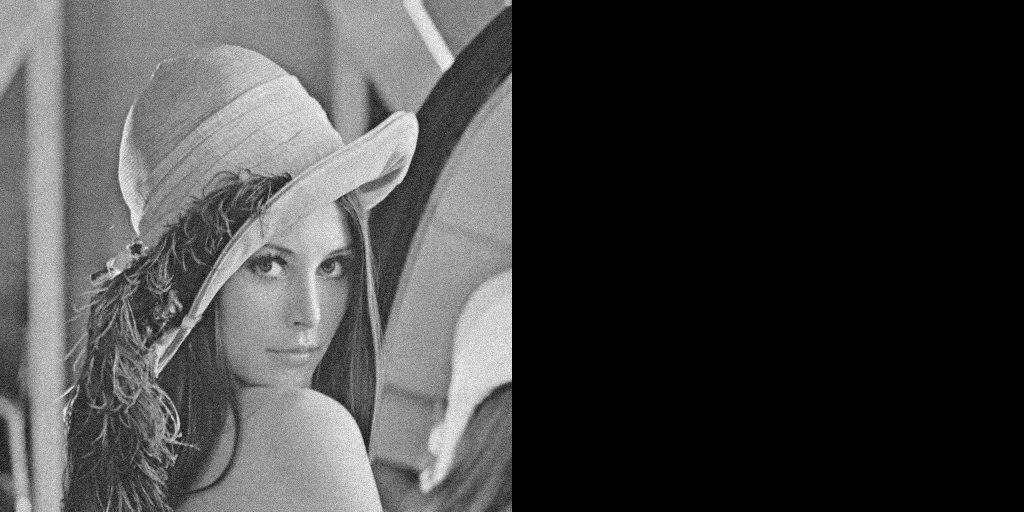
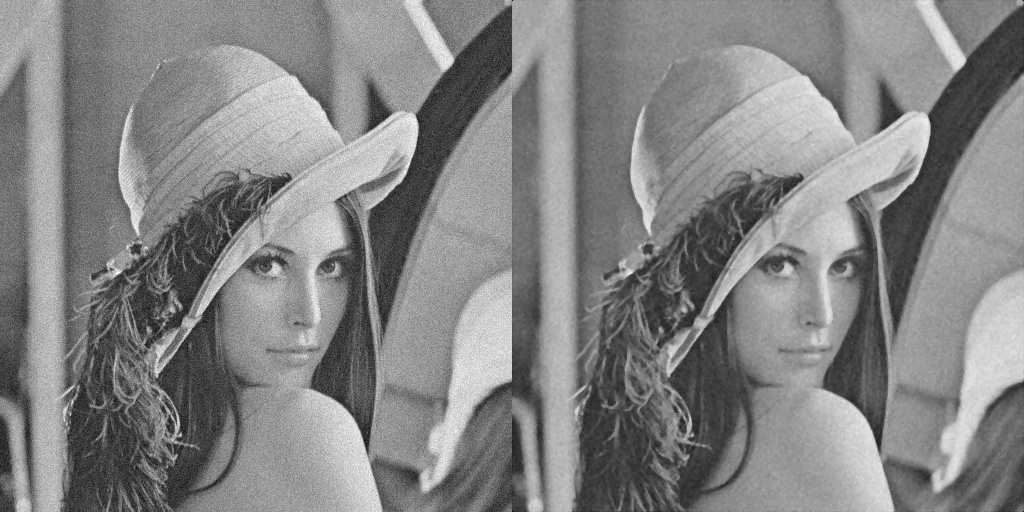
Finished arithmetic_mean, geometric_mean, local_noise, and median

diff --git a/Denoise/Filtering.py b/Denoise/Filtering.py
@@ -1,6 +1,4 @@
-from ctypes import sizeof
-from threading import local
-from unittest import result
+import cmath
 import numpy as np
 
 class Filtering:
@@ -38,14 +36,14 @@ class Filtering:
         roi: region of interest (a list/array of intensity values)
         returns the arithmetic mean value of the roi"""
         
+        #variables to calculate arithmetic mean
         mXn = np.size(roi)
-
         sum = 0
         result = 0
-
+        
+        #calculate mean based on roi sum
         for each in roi:
             sum += each
-
         result = (1/mXn) * sum
         return result
 
@@ -54,24 +52,48 @@ class Filtering:
         takes as input:
         roi: region of interest (a list/array of intensity values)
         returns the geometric mean value of the roi"""
-        print("testing_geometric_mean")
-        return 0
+        #declare variables to calculate geometric mean
+        mXn = np.size(roi)
+        product = 1
+        result = 0
+
+        #caluclate the product mean based on roi 
+        for each in roi:
+            product *= each
+        result = (product)**(1/mXn)
+        return result
 
     def get_local_noise(self, roi):
         """Computes the local noise reduction value
         takes as input:
         roi: region of interest (a list/array of intensity values)
         returns the local noise reduction value of the roi"""
+        #declare variables to calculate local_noise
+        sum1 = sum(roi)
+        sum2 = 0
+        result = 0
+        for each in roi:
+            sum2 += each**2
         
-        return 0
+        #calculate mean, variance, and g(x, y)
+        local_mean = sum1/np.size(roi)
+        local_variance = (sum2/np.size(roi)) - (local_mean)**2
+        g_xy = roi[int((np.size(roi) - 1)/2)]
+
+        result = g_xy - ((self.global_var**2)/(local_variance**2)) * (g_xy - local_mean)
+        return result
 
     def get_median(self, roi):
         """Computes the median for the input roi
         takes as input:
         roi: region of interest (a list/array of intensity values)
         returns the median value of the roi"""
-        
-        return 0
+        #declare variables to calculate median
+        result = 0
+        roi = sorted(roi)
+
+        result = roi[int((np.size(roi) - 1)/2)]
+        return result
 
 
     def get_adaptive_median(self):
@@ -103,7 +125,7 @@ class Filtering:
         the adaptive median filter as it has two stages, you are welcome to do that.
         For the adaptive median filter assume that S_max (maximum allowed size of the window) is 15
         """
-        local_img = self.image
+        local_img = self.image.copy()
         
         #Get a local copy of the image and initiate padded 0s
         padded_img = np.zeros([local_img.shape[0] + (self.filter_size - 1), local_img.shape[1] + (self.filter_size - 1)])
@@ -113,35 +135,33 @@ class Filtering:
             for y in range(0, local_img.shape[1]):
                 padded_img[x + int((self.filter_size - 1)/2), y + int((self.filter_size - 1)/2)] = local_img[x, y]
         
+        padded_img2 = padded_img.copy()
+        #temp holds the temporary list for roi
         temp = []
-        
+
         #pass in roi for each mean calculation
         for x in range(0, padded_img.shape[0] - (self.filter_size - 1)):
             for y in range(0, padded_img.shape[1] - (self.filter_size - 1)):
-                for z in range(x, x + (self.filter_size - 1)):
-                    for k in range(y, y + (self.filter_size - 1)):
-                        temp.append(padded_img[z, k])
-
+                for z in range(x, x + self.filter_size):
+                    for k in range(y, y + self.filter_size):
+                        temp.append(padded_img2[z, k])
 
                 padded_img[x + int((self.filter_size - 1)/2), y + int((self.filter_size - 1)/2)] = self.filter(temp)
-                
                 temp = []
 
+
         result_img = padded_img.copy()
-
         #Deleting padded zeros from final picture
-        result_img = np.delete(result_img, result_img.shape[0] - 1, 0)
-        result_img = np.delete(result_img, result_img.shape[1] - 1, 1)
-        result_img = np.delete(result_img, 0, 0)
-        result_img = np.delete(result_img, 0, 1)
-
+        while(result_img.shape[0] > local_img.shape[0] + ((self.filter_size - 1)/2)):
+            result_img = np.delete(result_img, result_img.shape[0] - 1, 0)
+        
         while(result_img.shape[0] > local_img.shape[0]):
             result_img = np.delete(result_img, 0, 0)
-            result_img = np.delete(result_img, local_img.shape[0] + 1, 0)
 
-        while(result_img.shape[1] > local_img.shape[1]):
-            result_img = np.delete(result_img, 0, 1)
-            result_img = np.delete(result_img, local_img.shape[1] + 1, 1)
+        while(result_img.shape[1] > local_img.shape[1] + ((self.filter_size - 1)/2)):
+            result_img = np.delete(result_img, result_img.shape[1] - 1, 1)
         
+        while(result_img.shape[1] > local_img.shape[1]):
+            result_img = np.delete(result_img, 0, 1) 
         return result_img
 
